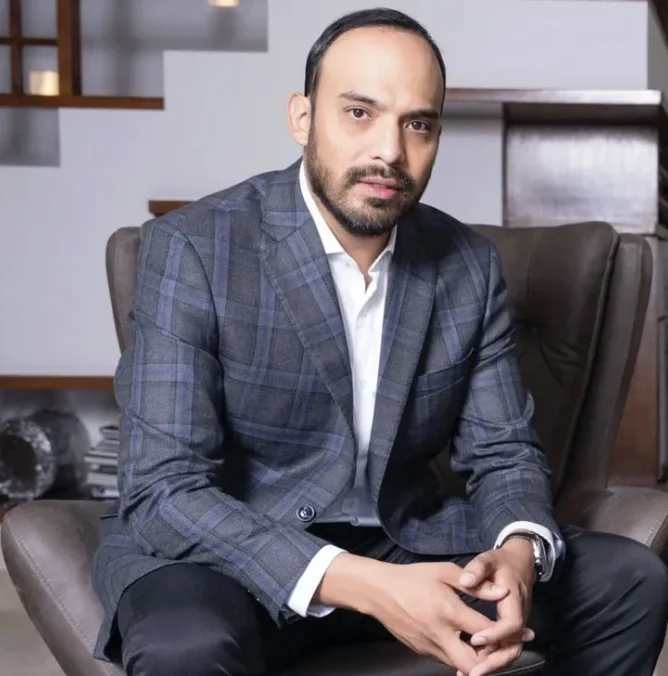
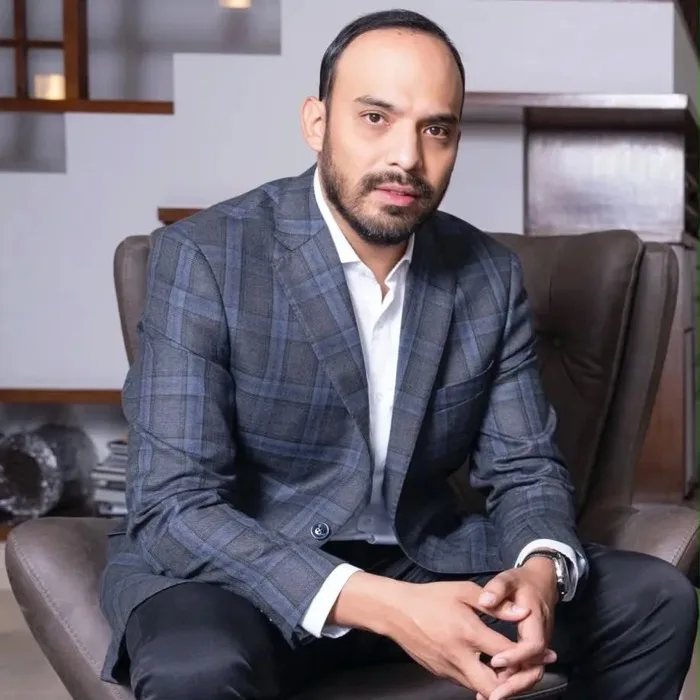
Add Executive Forum event page with speaker profiles
Cambridge & Boston Leadership Experience landing page for the September
2026 event, with all 9 speaker photos and bios in a yearbook-style profile
section. Replaces the China economic forum slot in the 2026 agenda.
Fixes name/company inconsistencies for Mirian Escalante Rejón and Raúl
Vargas Barrera across leaders.ts. Avoids naming the host institution to
stay clear of trademark use without authorization; uses its brand color
(crimson) instead.

diff --git a/src/components/sections/executive-forum-section.tsx b/src/components/sections/executive-forum-section.tsx
@@ -1,0 +1,230 @@
+"use client"
+
+import { motion } from "framer-motion"
+import { SafeImage } from "@/components/ui/safe-image"
+import { ButtonLink } from "@/components/ui/button-link"
+import { ArrowRight } from "lucide-react"
+
+type Speaker = {
+  name: string
+  company: string
+  initials: string
+  bio: string
+  image?: string
+}
+
+const panelI: Speaker[] = [
+  {
+    name: "Francisco Javier Porras Velázquez",
+    company: "Grupo CYSE",
+    initials: "FPV",
+    image: "/assets/conajomx/people/javier-porras-velazquez.webp",
+    bio: "Presidente del Consejo de Empresarios de CONAJOMX (CNEM), impulsando alianzas estratégicas entre el sector empresarial y las instituciones públicas de México.",
+  },
+  {
+    name: "Fernando Arista Reyes",
+    company: "AR Seguridad",
+    initials: "FAR",
+    image: "/assets/conajomx/people/fernando-arista-reyes.webp",
+    bio: "Empresario especializado en soluciones de seguridad corporativa y patrimonial para organizaciones e instituciones en México.",
+  },
+  {
+    name: "Daniel Olea Montes",
+    company: "Mayorazgo Wealth Management",
+    initials: "DOM",
+    image: "/assets/conajomx/people/daniel-olea-montes.webp",
+    bio: "Vicepresidente de CONAJOMX y especialista en gestión patrimonial y planeación financiera para familias empresarias.",
+  },
+  {
+    name: "Diego García del Río",
+    company: "Urbion Capital ETP",
+    initials: "DGR",
+    image: "/assets/conajomx/people/diego-garcia-del-rio.webp",
+    bio: "Especialista en estructuración de capital e inversión, con enfoque en proyectos de alto rendimiento en mercados internacionales.",
+  },
+]
+
+const panelII: Speaker[] = [
+  {
+    name: "Mirian Escalante Rejón",
+    company: "Corporativo Escalante",
+    initials: "MER",
+    image: "/assets/conajomx/people/mirian-escalante-rejon.webp",
+    bio: "Vicepresidenta del Consejo de Empresarios de CONAJOMX (CNEM), al frente de Corporativo Escalante.",
+  },
+  {
+    name: "Raúl Vargas Barrera",
+    company: "Varcla Constructores",
+    initials: "RVB",
+    image: "/assets/conajomx/people/raul-vargas-barrera.webp",
+    bio: "Empresario del sector de la construcción, impulsando proyectos de infraestructura y desarrollo regional al frente de Varcla Constructores.",
+  },
+  {
+    name: "Miguel Alejandro Vargas Cabrera",
+    company: "SUNSUN Energy",
+    initials: "MVC",
+    image: "/assets/conajomx/people/miguel-alejandro-vargas-cabrera.webp",
+    bio: "Empresario del sector energético, enfocado en soluciones de energía solar y sostenibilidad para el desarrollo regional.",
+  },
+  {
+    name: "Eduardo Solano González",
+    company: "NSM Ecosistemas Circulares",
+    initials: "ESG",
+    image: "/assets/conajomx/people/eduardo-solano-gonzalez.webp",
+    bio: "Secretario de Economía de CNEM 2026, impulsor de la agenda de sostenibilidad y economía circular en foros como Latam Green.",
+  },
+  {
+    name: "Jorge Handal Canavati",
+    company: "Cien Grupo Inmobiliario",
+    initials: "JHC",
+    image: "/assets/conajomx/people/jorge-handal-canavati.webp",
+    bio: "Empresario del sector inmobiliario, con proyectos de desarrollo urbano y vivienda al frente de Cien Grupo Inmobiliario.",
+  },
+]
+
+function SpeakerCard({ speaker, index }: { speaker: Speaker; index: number }) {
+  return (
+    <motion.div
+      initial={{ opacity: 0, y: 20 }}
+      whileInView={{ opacity: 1, y: 0 }}
+      viewport={{ once: true }}
+      transition={{ delay: index * 0.06, duration: 0.4 }}
+      className="flex flex-col items-center text-center"
+    >
+      {speaker.image ? (
+        <div className="w-24 h-24 rounded-full overflow-hidden border-2 border-[#DCE8F2] shadow-[0_4px_20px_rgba(10,45,82,0.10)] mb-4">
+          <SafeImage
+            src={speaker.image}
+            alt={`Foto de ${speaker.name}`}
+            width={96}
+            height={96}
+            className="object-cover w-full h-full"
+          />
+        </div>
+      ) : (
+        <div className="w-24 h-24 rounded-full bg-gradient-to-br from-[#071D3A] to-[#0A2D52] flex items-center justify-center mb-4 shadow-[0_4px_20px_rgba(10,45,82,0.10)]">
+          <span className="text-[#1FE9E1] font-bold text-lg">{speaker.initials}</span>
+        </div>
+      )}
+      <p className="text-[#071D3A] font-semibold text-sm leading-snug">{speaker.name}</p>
+      <p className="text-[#A51C30] text-xs mt-1">{speaker.company}</p>
+    </motion.div>
+  )
+}
+
+function ProfileCard({ speaker, index }: { speaker: Speaker; index: number }) {
+  return (
+    <motion.div
+      initial={{ opacity: 0, y: 20 }}
+      whileInView={{ opacity: 1, y: 0 }}
+      viewport={{ once: true }}
+      transition={{ delay: index * 0.05, duration: 0.4 }}
+      className="flex gap-4 p-5 rounded-xl bg-white border border-[#DCE8F2] hover:border-[#A51C30]/30 hover:shadow-[0_4px_20px_rgba(10,45,82,0.08)] transition-all"
+    >
+      {speaker.image ? (
+        <div className="w-16 h-16 rounded-full overflow-hidden border-2 border-[#DCE8F2] shrink-0">
+          <SafeImage
+            src={speaker.image}
+            alt={`Foto de ${speaker.name}`}
+            width={64}
+            height={64}
+            className="object-cover w-full h-full"
+          />
+        </div>
+      ) : (
+        <div className="w-16 h-16 rounded-full bg-gradient-to-br from-[#071D3A] to-[#0A2D52] flex items-center justify-center shrink-0">
+          <span className="text-[#1FE9E1] font-bold text-xs">{speaker.initials}</span>
+        </div>
+      )}
+      <div className="min-w-0">
+        <p className="text-[#071D3A] font-bold text-sm leading-snug">{speaker.name}</p>
+        <p className="text-[#A51C30] text-xs font-semibold mt-0.5 mb-2">{speaker.company}</p>
+        <p className="text-[#526173] text-xs leading-relaxed">{speaker.bio}</p>
+      </div>
+    </motion.div>
+  )
+}
+
+export function ExecutiveForumSection() {
+  const allSpeakers = [...panelI, ...panelII]
+
+  return (
+    <section className="py-24 bg-[#F5F1EA] relative overflow-hidden">
+      <div className="container mx-auto px-4 relative z-10">
+        {/* Panel I */}
+        <div className="grid lg:grid-cols-[280px_1fr] gap-10 items-start mb-20">
+          <motion.div
+            initial={{ opacity: 0, x: -20 }}
+            whileInView={{ opacity: 1, x: 0 }}
+            viewport={{ once: true }}
+            transition={{ duration: 0.5 }}
+          >
+            <p className="text-xs font-bold uppercase tracking-[0.2em] text-[#A51C30] mb-3">
+              Panel I
+            </p>
+            <h2 className="text-2xl sm:text-3xl font-black text-[#071D3A] leading-tight">
+              Inversión, Estrategia e Innovación
+            </h2>
+            <div className="h-0.5 w-12 bg-[#A51C30] mt-4" />
+          </motion.div>
+          <div className="grid grid-cols-2 sm:grid-cols-4 gap-8">
+            {panelI.map((speaker, i) => (
+              <SpeakerCard key={speaker.name} speaker={speaker} index={i} />
+            ))}
+          </div>
+        </div>
+
+        {/* Panel II */}
+        <div className="grid lg:grid-cols-[280px_1fr] gap-10 items-start mb-20">
+          <motion.div
+            initial={{ opacity: 0, x: -20 }}
+            whileInView={{ opacity: 1, x: 0 }}
+            viewport={{ once: true }}
+            transition={{ duration: 0.5 }}
+          >
+            <p className="text-xs font-bold uppercase tracking-[0.2em] text-[#A51C30] mb-3">
+              Panel II
+            </p>
+            <h2 className="text-2xl sm:text-3xl font-black text-[#071D3A] leading-tight">
+              Liderazgo y Desarrollo Regional
+            </h2>
+            <div className="h-0.5 w-12 bg-[#A51C30] mt-4" />
+          </motion.div>
+          <div className="grid grid-cols-2 sm:grid-cols-3 lg:grid-cols-5 gap-8">
+            {panelII.map((speaker, i) => (
+              <SpeakerCard key={speaker.name} speaker={speaker} index={i} />
+            ))}
+          </div>
+        </div>
+
+        {/* Perfiles / Anuario */}
+        <div className="max-w-5xl mx-auto pt-4 border-t border-[#DCE8F2]">
+          <div className="text-center mb-10 pt-16">
+            <p className="text-xs font-bold uppercase tracking-[0.2em] text-[#A51C30] mb-3">
+              Anuario Executive Forum
+            </p>
+            <h2 className="text-2xl sm:text-3xl font-black text-[#071D3A] leading-tight">
+              Perfil de los ponentes
+            </h2>
+          </div>
+          <div className="grid sm:grid-cols-2 gap-4">
+            {allSpeakers.map((speaker, i) => (
+              <ProfileCard key={speaker.name} speaker={speaker} index={i} />
+            ))}
+          </div>
+        </div>
+
+        {/* CTA */}
+        <div className="text-center mt-20">
+          <ButtonLink
+            href="/contacto"
+            className="bg-[#071D3A] text-white hover:bg-[#0A2D52] font-semibold shadow-[0_4px_20px_rgba(7,29,58,0.20)] px-8"
+          >
+            Quiero más información{" "}
+            <ArrowRight className="ml-2 w-4 h-4" />
+          </ButtonLink>
+        </div>
+      </div>
+    </section>
+  )
+}

diff --git a/src/app/executive-forum/page.tsx b/src/app/executive-forum/page.tsx
@@ -1,0 +1,62 @@
+import type { Metadata } from "next"
+import { ExecutiveForumSection } from "@/components/sections/executive-forum-section"
+import { ContactSection } from "@/components/sections/contact-section"
+
+export const metadata: Metadata = {
+  title: "CONAJOMX Executive Forum — Cambridge & Boston Leadership Experience",
+  description:
+    "CONAJOMX Executive Forum: Cambridge & Boston Leadership Experience. Diálogo ejecutivo para un futuro sostenible y competitivo con líderes empresariales de México.",
+}
+
+export default function ExecutiveForumPage() {
+  return (
+    <>
+      <div className="pt-16 bg-[#071630] relative overflow-hidden border-b-4 border-[#A51C30]">
+        <div className="absolute inset-0 bg-[radial-gradient(circle_at_80%_20%,rgba(165,28,48,0.10),transparent_60%)]" />
+        <div className="container mx-auto px-4 py-20 text-center relative z-10">
+          <p className="text-[#1FE9E1] text-sm font-semibold uppercase tracking-widest mb-4">
+            CONAJOMX
+          </p>
+          <h1 className="text-4xl sm:text-6xl font-black text-white mb-4 leading-tight">
+            Executive Forum
+          </h1>
+          <p className="text-[#8EA4BD] text-xl max-w-2xl mx-auto leading-relaxed mb-10">
+            Cambridge &amp; Boston Leadership Experience
+          </p>
+
+          <div className="h-px w-24 bg-[#A51C30] mx-auto mb-10" />
+
+          <p className="text-[#8EA4BD] text-base max-w-xl mx-auto leading-relaxed mb-8">
+            Un encuentro ejecutivo en el corazón académico de Cambridge, Massachusetts,
+            donde líderes empresariales de México dialogan sobre inversión, estrategia
+            y liderazgo con visión global.
+          </p>
+
+          <div className="flex items-center justify-center gap-3 flex-wrap">
+            <span className="px-4 py-2 rounded-full border border-[#A51C30]/50 text-white/90 text-sm">
+              Cambridge, Massachusetts
+            </span>
+            <span className="px-4 py-2 rounded-full border border-[#A51C30]/50 text-white/90 text-sm">
+              Septiembre 2026
+            </span>
+          </div>
+        </div>
+      </div>
+
+      <ExecutiveForumSection />
+
+      <div className="bg-[#071630] py-14 border-t-4 border-[#A51C30]">
+        <div className="container mx-auto px-4 text-center">
+          <p className="text-white font-bold text-lg sm:text-xl tracking-[0.2em] uppercase">
+            Liderazgo · Visión · Impacto
+          </p>
+          <p className="text-[#1FE9E1] italic text-sm sm:text-base mt-3">
+            Diálogo ejecutivo para un futuro sostenible y competitivo
+          </p>
+        </div>
+      </div>
+
+      <ContactSection />
+    </>
+  )
+}

diff --git a/src/data/agenda.ts b/src/data/agenda.ts
@@ -64,13 +64,13 @@ export const agenda2026: AgendaEvent[] = [
     type: "Tecnología",
   },
   {
-    country: "China",
-    countryCode: "CN",
-    dateLabel: "TBD (junio)",
-    month: "Junio",
-    monthNum: 6,
-    title: "World Economic Forum, Annual Meeting of the New Champions",
-    type: "Foro económico",
+    country: "Estados Unidos",
+    countryCode: "US",
+    dateLabel: "Septiembre 2026",
+    month: "Septiembre",
+    monthNum: 9,
+    title: "CONAJOMX Executive Forum — Cambridge & Boston Leadership Experience",
+    type: "Foro ejecutivo",
   },
   {
     country: "Francia",

diff --git a/src/data/leaders.ts b/src/data/leaders.ts
@@ -60,10 +60,11 @@ export const presidenciaNacional: Leader[] = [
     initials: "JMT",
   },
   {
-    name: "Miriam Escalante Rejón",
+    name: "Mirian Escalante Rejón",
     role: "Vicepresidenta del Consejo de Empresarios",
     council: "CNEM",
     initials: "MER",
+    image: "/assets/conajomx/people/mirian-escalante-rejon.webp",
   },
   {
     name: "Tonatiuh Zarate",
@@ -87,10 +88,11 @@ export const mesaDirectivaCNEM2026: Leader[] = [
     initials: "JPV",
   },
   {
-    name: "Miriam Escalante Rejón",
+    name: "Mirian Escalante Rejón",
     role: "Vicepresidencia",
     council: "CNEM 2026",
     initials: "MER",
+    image: "/assets/conajomx/people/mirian-escalante-rejon.webp",
   },
   {
     name: "Alejandra Cerecedo Constantino",
@@ -99,16 +101,18 @@ export const mesaDirectivaCNEM2026: Leader[] = [
     initials: "ACC",
   },
   {
-    name: "Raúl Vargas Contreras",
+    name: "Raúl Vargas Barrera",
     role: "Secretario de Constructores",
     council: "CNEM 2026",
-    initials: "RVC",
+    initials: "RVB",
+    image: "/assets/conajomx/people/raul-vargas-barrera.webp",
   },
   {
     name: "Eduardo Solano González",
     role: "Secretario de Economía",
     council: "CNEM 2026",
     initials: "ESG",
+    image: "/assets/conajomx/people/eduardo-solano-gonzalez.webp",
   },
   {
     name: "Luis Cavazos Morales",

diff --git a/src/app/sitemap.ts b/src/app/sitemap.ts
@@ -7,6 +7,7 @@ export default function sitemap(): MetadataRoute.Sitemap {
   return [
     { url: base, lastModified: now, changeFrequency: "daily", priority: 1.0 },
     { url: `${base}/agenda`, lastModified: now, changeFrequency: "daily", priority: 0.95 },
+    { url: `${base}/executive-forum`, lastModified: now, changeFrequency: "weekly", priority: 0.85 },
     { url: `${base}/noticias`, lastModified: now, changeFrequency: "daily", priority: 0.9 },
     { url: `${base}/afiliacion`, lastModified: now, changeFrequency: "weekly", priority: 0.85 },
     { url: `${base}/cnem`, lastModified: now, changeFrequency: "weekly", priority: 0.8 },

diff --git a/src/data/navigation.ts b/src/data/navigation.ts
@@ -3,6 +3,7 @@ export const mainNav = [
   { label: "Nosotros", href: "/#nosotros" },
   { label: "Liderazgo", href: "/liderazgo" },
   { label: "Agenda 2026", href: "/agenda" },
+  { label: "Executive Forum", href: "/executive-forum" },
   { label: "CNEM", href: "/cnem" },
   { label: "España", href: "/espana" },
   { label: "Legisladores", href: "/legisladores-y-alcaldes" },